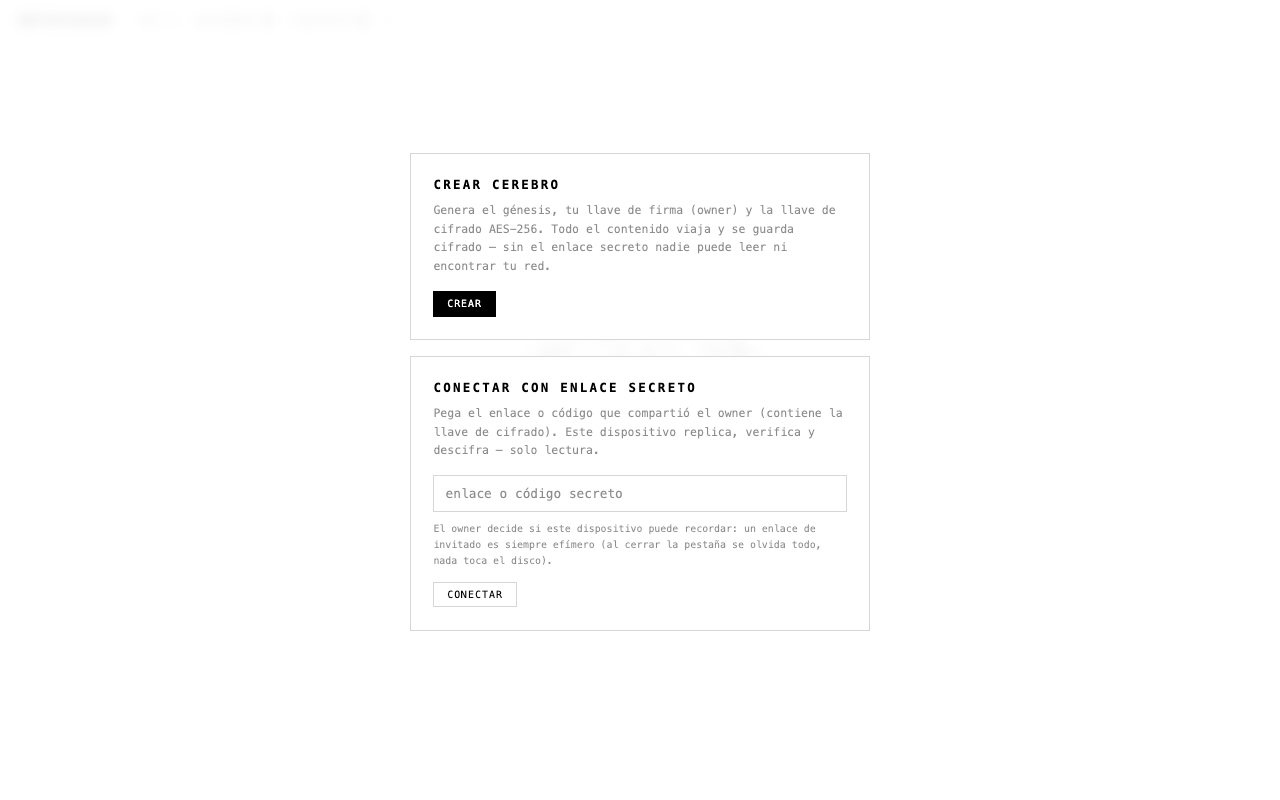
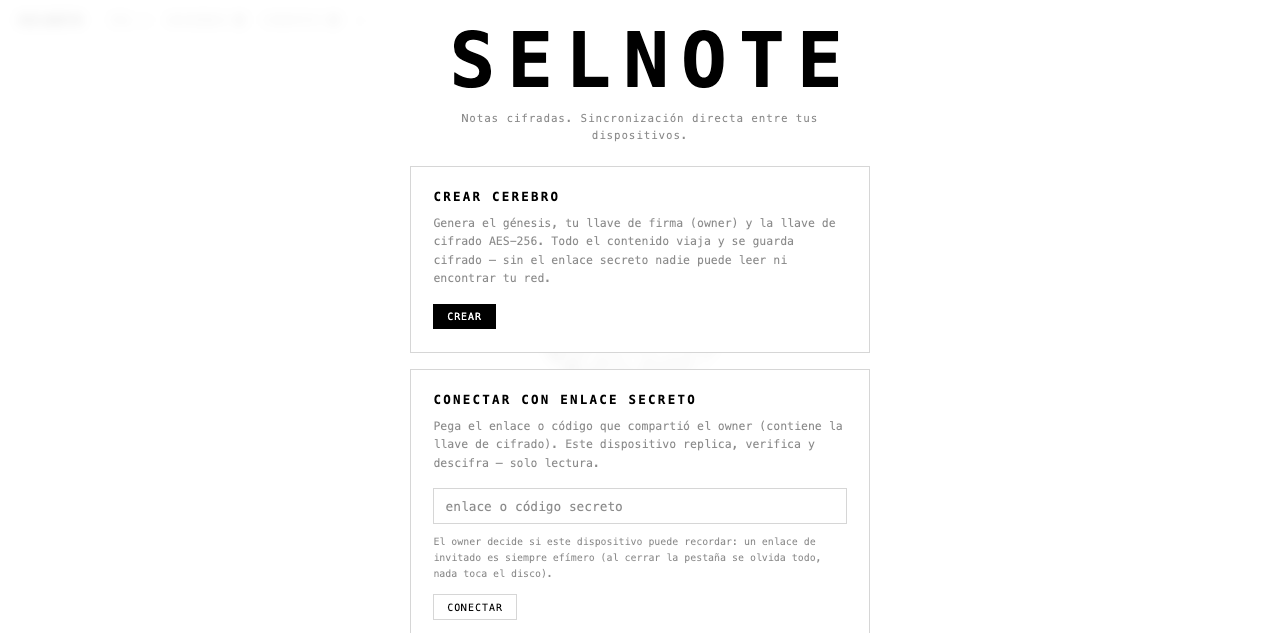
feat(home): add Selnote glitch and feature guide

diff --git a/index.html b/index.html
@@ -64,9 +64,51 @@
   /* ---- setup ---- */
   #setup {
     position: fixed; inset: 0; z-index: 100;
-    display: flex; flex-direction: column; justify-content: center; align-items: center;
+    display: flex; flex-direction: column; justify-content: flex-start; align-items: center;
     background: rgba(255,255,255,.82); backdrop-filter: blur(6px);
-    padding: 1rem;
+    padding: clamp(1rem, 4vh, 2.5rem) 1rem;
+    overflow-y: auto;
+  }
+  #setup .setup-brand {
+    position: relative;
+    width: min(720px, 92vw);
+    margin-top: auto;
+    color: var(--ink);
+    font-size: clamp(2.35rem, 11vw, 4.75rem);
+    font-weight: 700;
+    line-height: .95;
+    letter-spacing: .16em;
+    text-align: center;
+    text-indent: .16em;
+  }
+  #setup .setup-brand span { position: relative; display: inline-block; }
+  #setup .setup-brand span::before,
+  #setup .setup-brand span::after {
+    content: attr(data-text);
+    position: absolute; inset: 0;
+    color: var(--ink);
+    pointer-events: none;
+    opacity: 0;
+    animation: setup-glitch-in 680ms cubic-bezier(.16,1,.3,1) 120ms both;
+  }
+  #setup .setup-brand span::before { --glitch-x: -.09em; --glitch-x-reverse: .09em; --glitch-x-small: -.035em; --glitch-y: -.035em; }
+  #setup .setup-brand span::after { --glitch-x: .09em; --glitch-x-reverse: -.09em; --glitch-x-small: .035em; --glitch-y: .035em; animation-delay: 170ms; }
+  @keyframes setup-glitch-in {
+    0%, 100% { clip-path: inset(0 0 100% 0); transform: translate(0); opacity: 0; }
+    12% { clip-path: inset(8% 0 66% 0); transform: translate(var(--glitch-x), var(--glitch-y)); opacity: .78; }
+    28% { clip-path: inset(62% 0 12% 0); transform: translate(var(--glitch-x-reverse), 0); opacity: .5; }
+    44% { clip-path: inset(31% 0 42% 0); transform: translate(var(--glitch-x), var(--glitch-y)); opacity: .72; }
+    62% { clip-path: inset(74% 0 4% 0); transform: translate(var(--glitch-x-small), 0); opacity: .34; }
+    78% { clip-path: inset(18% 0 70% 0); transform: translate(0); opacity: .18; }
+  }
+  #setup .setup-tagline {
+    width: min(460px, 92vw);
+    margin: .75rem 0 1.35rem;
+    color: var(--dim);
+    font-size: .68rem;
+    line-height: 1.6;
+    letter-spacing: .08em;
+    text-align: center;
   }
   #setup .card {
     width: min(460px, 92vw);
@@ -76,6 +118,12 @@
   #setup h2 { font-size: .78rem; letter-spacing: .18em; text-transform: uppercase; margin-bottom: .6rem; }
   #setup p { font-size: .72rem; color: var(--dim); line-height: 1.6; margin-bottom: 1rem; }
   #setup .hint { font-size: .62rem; margin-bottom: .8rem; }
+  #setup .card:last-child { margin-bottom: auto; }
+
+  @media (prefers-reduced-motion: reduce) {
+    #setup .setup-brand span::before,
+    #setup .setup-brand span::after { content: none; animation: none; }
+  }
 
   /* aviso de cerebro muerto */
   #dead {
@@ -407,6 +455,8 @@
 </div>
 
 <div id="setup">
+  <h1 class="setup-brand" aria-label="Selnote"><span aria-hidden="true" data-text="SELNOTE">SELNOTE</span></h1>
+  <p class="setup-tagline">Notas cifradas. Sincronización directa entre tus dispositivos.</p>
   <div class="card">
     <h2>Crear cerebro</h2>
     <p>Genera el génesis, tu llave de firma (owner) y la llave de cifrado AES-256. Todo el contenido viaja y se guarda cifrado — sin el enlace secreto nadie puede leer ni encontrar tu red.</p>

diff --git a/README.md b/README.md
@@ -4,7 +4,7 @@
 
 <p align="center">
   <strong>Notas personales que viven en tu navegador y se sincronizan entre tus propios dispositivos.</strong><br>
-  <sub>Sin cuentas, sin backend que centralice el contenido y con cifrado de extremo a extremo.</sub>
+  <sub>Sin cuentas, sin un almacén central de contenido y con cifrado de extremo a extremo.</sub>
 </p>
 
 <p align="center">
@@ -18,23 +18,132 @@
   <img src="screenshot.png" alt="Interfaz visual de Selnote" width="600">
 </p>
 
----
+## Qué es Selnote
 
-## Qué hace
+Selnote es una aplicación web estática para crear notas y conservar archivos cifrados en el navegador. Replica los cambios entre dispositivos autorizados mediante conexiones directas WebRTC y representa las notas como neuronas alrededor de un cerebro 3D.
 
-Selnote está pensado para conservar notas y archivos bajo tu control: cifra los datos en el dispositivo, guarda una copia local y replica los cambios directamente entre dispositivos emparejados. La interfaz convierte el conjunto de notas en un mapa visual para navegar el contenido y entender qué dispositivos forman parte del cerebro.
+No requiere una cuenta ni usa un backend como almacén de notas. La infraestructura de red ayuda a encontrar dispositivos y, cuando la conexión directa falla, puede transportar bytes ya cifrados.
 
-El cambio de nombre a Selnote conserva la base de datos local y el espacio de descubrimiento usados por versiones anteriores. Actualizar la aplicación no migra ni borra las notas existentes, y los dispositivos ya emparejados continúan compartiendo el mismo protocolo.
+> [!IMPORTANT]
+> El enlace secreto contiene la llave que permite encontrar y descifrar el cerebro. No lo publiques ni lo compartas con personas que no deban leer su contenido.
 
-## Funcionalidades principales
+## Probar ahora
 
-- **Notas locales cifradas** con AES-GCM y almacenamiento en IndexedDB.
-- **Historial verificable de cambios**, firmado con claves Ed25519.
-- **Sincronización P2P** entre dispositivos mediante WebRTC; el contenido viaja cifrado.
-- **Emparejamiento por código o QR** para autorizar nuevos dispositivos.
-- **Modo de transferencia por luz**: enviá notas pequeñas de pantalla a cámara sin Wi-Fi, datos ni Bluetooth.
-- **Adjuntos e imágenes** cifrados, fragmentados y verificados por hash antes de usarse.
-- **Edición, búsqueda, eliminación y revocación** desde una única interfaz web.
+Abrí **[Selnote en GitHub Pages](https://anthoniriv.github.io/selnote-web/)** en un navegador moderno.
+
+1. Seleccioná **Crear cerebro**.
+2. Creá una nota con el botón **+** o pegá texto, imágenes o archivos.
+3. Desde **enlace secreto**, elegí **mi dispositivo** para conectar otro equipo propio o **invitado** para una sesión de lectura temporal.
+4. Abrí el enlace en el segundo dispositivo y mantené ambos conectados hasta que aparezca la sinapsis.
+5. Editá una nota y comprobá que el cambio llegue al otro dispositivo.
+
+## Inicio rápido
+
+### Crear notas
+
+- **+** abre el editor para crear una nota.
+- **⧉** crea una nota desde el portapapeles; en escritorio también podés usar `Ctrl+V` o `⌘V` fuera del editor.
+- **⌕** busca por título o contenido. También funcionan `Ctrl/⌘+F`, `Ctrl/⌘+K` y, si el sistema no lo reserva, `Ctrl/⌘+Espacio`.
+- Arrastrar archivos sobre la aplicación abre una nota nueva con esos adjuntos.
+
+### Conectar dispositivos
+
+El enlace secreto da acceso al cerebro; el emparejamiento establece una conexión entre dos navegadores. Son pasos distintos:
+
+1. El owner comparte un enlace de **mi dispositivo**.
+2. El nuevo dispositivo demuestra criptográficamente que posee la llave del cerebro.
+3. El owner registra su permiso de escritura en la cadena firmada.
+
+Para equipos que ya tienen acceso al mismo cerebro, **sin internet** permite intercambiar una oferta y una respuesta WebRTC por texto o QR dentro de la misma red local. Ese código conecta los pares, pero no reemplaza el enlace secreto ni concede permisos por sí solo.
+
+## Mapa de funcionalidades
+
+### Notas e interfaz
+
+- Creación, lectura, edición y eliminación de notas según el permiso del dispositivo.
+- Pegado directo de texto, imágenes y archivos; selector múltiple, selector móvil de fotos y vídeos, y arrastrar y soltar.
+- Búsqueda por título y contenido con navegación por teclado y enfoque de la neurona encontrada.
+- Detección de enlaces `http` y `https` dentro del texto, abiertos en una pestaña aislada.
+- Bloques de código con sintaxis de triple acento grave, etiqueta de lenguaje y botón para copiar.
+- Fecha local de la última modificación y resúmenes de contenido en las tarjetas.
+- Cerebro 3D interactivo: rotación con puntero, zoom con rueda o gesto de pellizco, pulsos al recibir cambios y una rama por nota.
+- Vista plana de respaldo si WebGL o la biblioteca 3D local no pueden cargarse.
+
+### Archivos y contenido multimedia
+
+- Adjuntos cifrados de hasta **2 GB por archivo**. El límite efectivo también depende de la cuota y el espacio disponible en el navegador.
+- Cifrado y almacenamiento por fragmentos de 256 KB para evitar cargar el archivo completo en memoria durante la ingesta.
+- Vista previa de imágenes, reproducción de audio y vídeo, y descarga de cualquier adjunto disponible.
+- Verificación SHA-256 del contenido recibido antes de aceptarlo.
+- Transferencias reanudables por fragmento, con deduplicación de fragmentos idénticos y reintentos cuando un emisor desaparece.
+- Descarga paralela desde varios dispositivos, repartida según la velocidad observada de cada conexión.
+- Barra de progreso con porcentaje, velocidad y ruta utilizada: directa, por relevo o mixta.
+- Wake Lock cuando el navegador lo permite, para reducir interrupciones mientras hay una transferencia activa.
+
+### Sincronización y red
+
+- Replicación P2P por canales WebRTC; el tracker coordina la señalización, no almacena notas.
+- Descubrimiento mediante un tópico derivado de la llave: sin el secreto no se conoce el canal del cerebro.
+- Fallback por WebSocket cuando los pares no consiguen una ruta WebRTC directa. El relevo transporta el contenido cifrado por la aplicación.
+- Sincronización de la cadena completa al detectar huecos y difusión inmediata de bloques nuevos.
+- Convergencia determinista ante ramas simultáneas y reaplicación de cambios propios que hayan quedado fuera de la rama adoptada.
+- Reanudación al volver desde segundo plano, limpieza de conexiones obsoletas y reintento de archivos pendientes.
+- Control **desconectar/conectar** para aislar el dispositivo de la red sin dejar de usar su copia local.
+- Estado visible de red, número de pares y diagnóstico básico cuando no existe una ruta entre dispositivos.
+- Emparejamiento local sin salida a Internet mediante oferta/respuesta copiada, compartida o escaneada como QR.
+
+### Transferencia por luz
+
+- Envío de una nota y sus adjuntos directamente de una pantalla a una cámara, sin Wi-Fi, datos móviles ni Bluetooth.
+- Secuencia de QR animados con códigos fountain: el receptor puede reconstruir la carga aunque pierda algunos cuadros.
+- Límite exacto de **2 MB por envío**, incluyendo texto, metadatos y adjuntos.
+- Progreso de emisión y recepción, selección automática de cámara trasera cuando está disponible y reconstrucción local como una nota nueva.
+
+La transferencia por luz no sincroniza dos cerebros ni concede acceso: importa una copia puntual de la nota en el cerebro receptor.
+
+### Dispositivos y permisos
+
+- Dos clases de enlace secreto:
+  - **Mi dispositivo:** conserva la identidad y la réplica local; solicita permiso para escribir.
+  - **Invitado:** funciona en memoria, es de solo lectura y olvida llaves, bloques y archivos al cerrar la pestaña.
+- Identidad Ed25519 propia por dispositivo persistente; la clave privada no sale del navegador.
+- Prueba cifrada de posesión de la llave antes de que el owner autorice un dispositivo nuevo.
+- Panel con dispositivos autorizados, estado en línea, custodio actual y orden de sucesión.
+- Revocación de escritura. El dispositivo revocado conserva lo ya sincronizado y necesita una reautorización explícita para escribir otra vez.
+- Lectura, búsqueda y descarga disponibles para invitados y dispositivos sin permiso de escritura.
+
+### Custodia y resiliencia
+
+- Un único dispositivo mantiene la custodia vigente y firma las operaciones administrativas.
+- Orden de sucesión firmado y editable por el custodio.
+- Traspaso de custodia al primer sucesor conectado cuando el owner cierra la página. Una recarga se distingue de un cierre para no borrar la copia accidentalmente.
+- Reclamación de custodia por el primer sucesor disponible después de **60 segundos** sin ver al custodio anterior.
+- Purga de una réplica persistente que permanece **5 minutos** sin ninguna sinapsis; la aplicación avisa un minuto antes.
+- Recuperación de una réplica local cuya cadena no pasa la verificación: se descarta la cadena corrupta y se intenta resincronizar desde otros dispositivos.
+- Eliminación global iniciada por el custodio mediante una sentencia firmada. El modo lápida continúa notificando a dispositivos que estaban apagados cuando vuelven a conectarse.
+
+> [!WARNING]
+> El modelo de custodia prioriza que la memoria viva mientras haya dispositivos conectados. Al cerrar como custodio, la copia local puede borrarse y la custodia pasar a un sucesor. Leé el diálogo de confirmación antes de cerrar o eliminar el cerebro.
+
+### Privacidad e integridad
+
+- Notas cifradas con AES-256-GCM antes de persistirse o transferirse.
+- Adjuntos cifrados por fragmento y almacenados fuera de la cadena; la cadena conserva descriptores cifrados.
+- Historial enlazado por hash y operaciones firmadas con Ed25519.
+- Validación del génesis, continuidad de índices y hashes, firmas, autoridad vigente y permisos de escritura antes de aceptar una cadena.
+- Llave de cifrado dentro del fragmento `#` del enlace: el navegador no la envía como parte de la solicitud HTTP normal.
+- Política CSP restrictiva y bibliotecas JavaScript servidas desde `vendor/`, sin fallback ejecutable a CDN.
+
+El cifrado protege el contenido, no todo el contexto de conexión. Tracker, STUN y TURN o relevo pueden observar metadatos necesarios para establecer la comunicación, como direcciones IP, puertos, horarios, pares participantes y volumen aproximado de tráfico. Consultá [Red y despliegue](docs/networking.md) y el [modelo de amenazas](docs/threat-model.md).
+
+### PWA y operación
+
+- Manifest para instalar Selnote como aplicación independiente cuando el navegador lo permite.
+- Service worker con estrategia network-first y respaldo offline para el shell: HTML, manifest, icono y bibliotecas locales.
+- Apertura y uso de la réplica local sin Internet después de que el shell haya quedado en caché.
+- Precarga de las bibliotecas QR necesarias para el emparejamiento local y la transferencia por luz.
+- Comprobación periódica de versión en despliegues que expongan `/version`; la recarga se aplaza mientras el usuario edita o confirma una acción.
+- Aplicación estática sin proceso de compilación ni dependencias npm de ejecución.
 
 ## Cómo funciona
 
@@ -46,34 +155,39 @@ El cambio de nombre a Selnote conserva la base de datos local y el espacio de de
           │
           ├── se guarda localmente en IndexedDB
           │
-          └── se replica a dispositivos autorizados por WebRTC
+          └── se replica a dispositivos autorizados
+                   │
+                   ├── WebRTC directo
+                   └── relevo cifrado si no hay ruta directa
 ```
 
-El contenido no se sube a un servicio central. Un tracker liviano puede ayudar a encontrar pares y negociar la conexión, pero las notas y los adjuntos se envían cifrados entre dispositivos. Para un intercambio puntual, el código QR permite iniciar la transferencia usando únicamente la pantalla y la cámara.
+La cadena registra la secuencia verificable de operaciones. Los binarios se guardan aparte, cifrados y direccionados por hash, para que la sincronización inicial siga siendo ligera y las transferencias puedan reanudarse por fragmentos.
 
-## Flujo de uso
-
-1. Abrí la aplicación en un navegador compatible y creá un espacio de notas.
-2. Guardá notas o adjuntá archivos: permanecen cifrados en el almacenamiento del navegador.
-3. Emparejá otro dispositivo con el código o QR para replicar el contenido entre ambos.
+El cambio de nombre a Selnote conserva el nombre heredado de la base IndexedDB y el espacio de descubrimiento del protocolo. Actualizar la aplicación no migra ni borra por sí mismo las notas existentes, y los dispositivos compatibles continúan compartiendo la misma red.
 
 ## Arquitectura
 
 El proyecto es una aplicación web estática y autocontenida:
 
 ```text
-index.html    interfaz, lógica de aplicación y estilos
-assets/       recursos visuales de la documentación
+index.html                 interfaz, estilos y lógica principal
+manifest.webmanifest       metadatos de instalación
+sw.js                      caché del shell offline
+vendor/                    Three.js y bibliotecas QR locales
+scripts/                   validaciones usadas por la aplicación y la CI
+tests/                     pruebas de integridad del repositorio
+docs/                      red, despliegue y modelo de amenazas
+assets/                    recursos visuales de la documentación
 ```
-
-El archivo de entrada implementa la interfaz, IndexedDB, Web Crypto, WebRTC y la visualización 3D. El repositorio incluye un `package.json` sin dependencias de ejecución para las verificaciones locales y de CI; no requiere proceso de compilación ni backend de almacenamiento.
 
 | Capa | Tecnología |
 |------|------------|
 | Interfaz | HTML, CSS y JavaScript vanilla |
 | Almacenamiento | IndexedDB del navegador |
-| Cifrado e identidad | Web Crypto, AES-GCM y Ed25519 |
-| Sincronización | WebRTC P2P + señalización liviana |
+| Cifrado e identidad | Web Crypto, AES-GCM, SHA-256 y Ed25519 |
+| Sincronización | WebRTC P2P + señalización y relevo WebSocket |
+| Experiencia offline | Web App Manifest + Service Worker |
+| Visualización | Three.js local con fallback plano |
 
 ## Ejecución local
 
@@ -85,13 +199,21 @@ python3 -m http.server 8080
 
 Abrí [http://localhost:8080](http://localhost:8080). Usar un servidor local, en vez de abrir el archivo directamente, permite que el navegador aplique correctamente las APIs web que utiliza la aplicación.
 
-## Consideraciones
+Para ejecutar las mismas verificaciones que la CI:
 
-- El contenido se almacena localmente en cada navegador; borrar los datos del sitio elimina esa copia.
-- La sincronización depende de que los dispositivos puedan conectarse como pares.
-- El tracker solo facilita el encuentro y la negociación; no es el almacén de notas. Los servicios de tracker, STUN y TURN pueden observar metadatos de red necesarios para establecer la conexión —por ejemplo, direcciones IP, puertos, momento y volumen aproximado del tráfico—, aunque no el contenido cifrado de las notas ni de los adjuntos.
-- Los adjuntos se cifran antes de persistirse y se verifican al recibirse.
-- La transferencia por QR está pensada para notas y cargas pequeñas: el límite práctico depende de la cámara y la velocidad de lectura.
+```bash
+npm run check
+npm test
+```
+
+## Límites y recuperación
+
+- Selnote no sustituye una estrategia de respaldo. Si se borran todas las copias del navegador o se pierde el enlace secreto, no existe un servidor central desde el que recuperar el contenido.
+- Borrar los datos del sitio elimina la réplica y las llaves guardadas en ese navegador.
+- La sincronización requiere que al menos dos dispositivos compatibles coincidan en línea y logren una ruta directa o por relevo.
+- Los archivos admiten hasta 2 GB, pero la cuota real depende del navegador y del dispositivo.
+- La transferencia por luz admite hasta 2 MB y su velocidad depende de las pantallas, las cámaras y la iluminación.
+- Algunas funciones requieren permisos o soporte del navegador: portapapeles, cámara, WebRTC, Web Crypto, IndexedDB, Service Worker y Wake Lock.
 
 ## Comunidad y calidad
 
@@ -102,10 +224,3 @@ Abrí [http://localhost:8080](http://localhost:8080). Usar un servidor local, en
 - [Red y despliegue](docs/networking.md)
 - [Modelo de amenazas](docs/threat-model.md)
 - [Licencia MIT](LICENSE)
-
-Para ejecutar las mismas verificaciones que la CI:
-
-```bash
-npm run check
-npm test
-```
